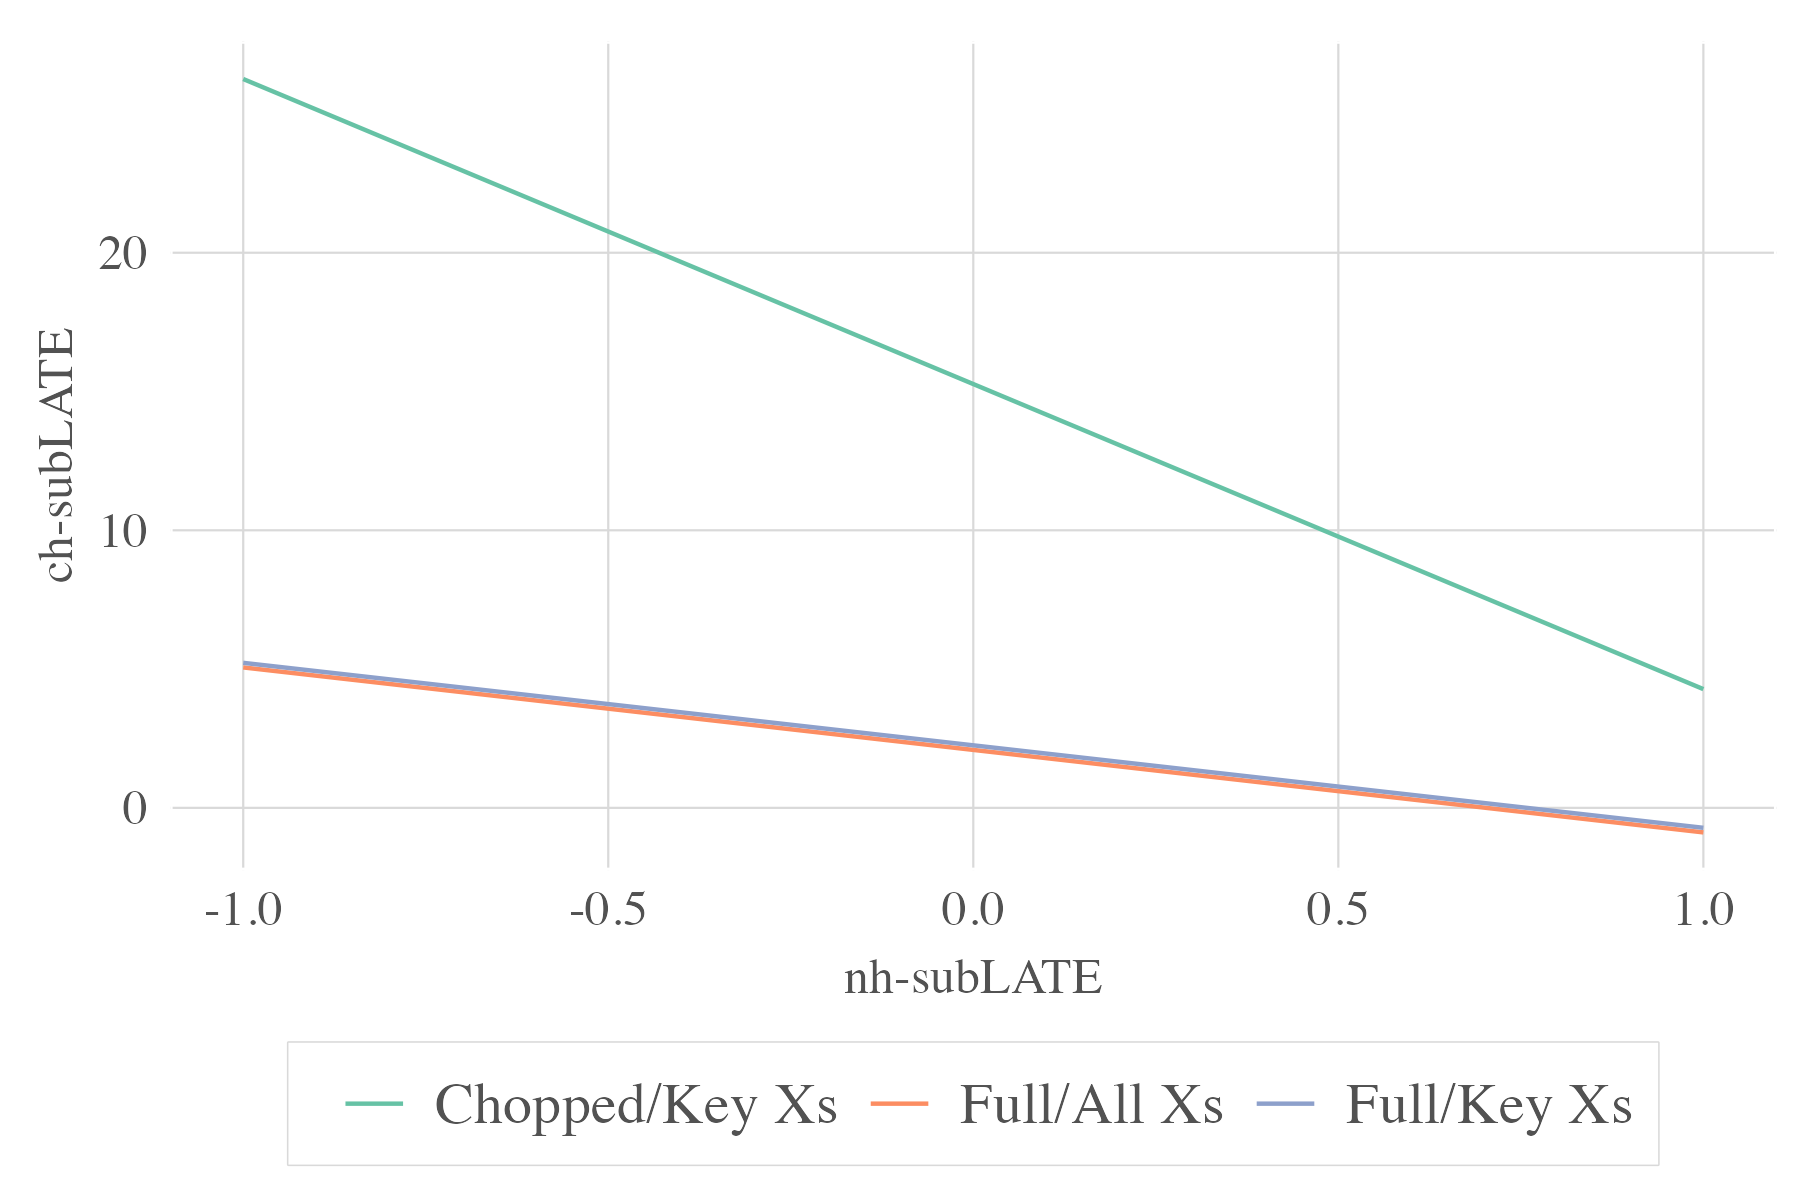
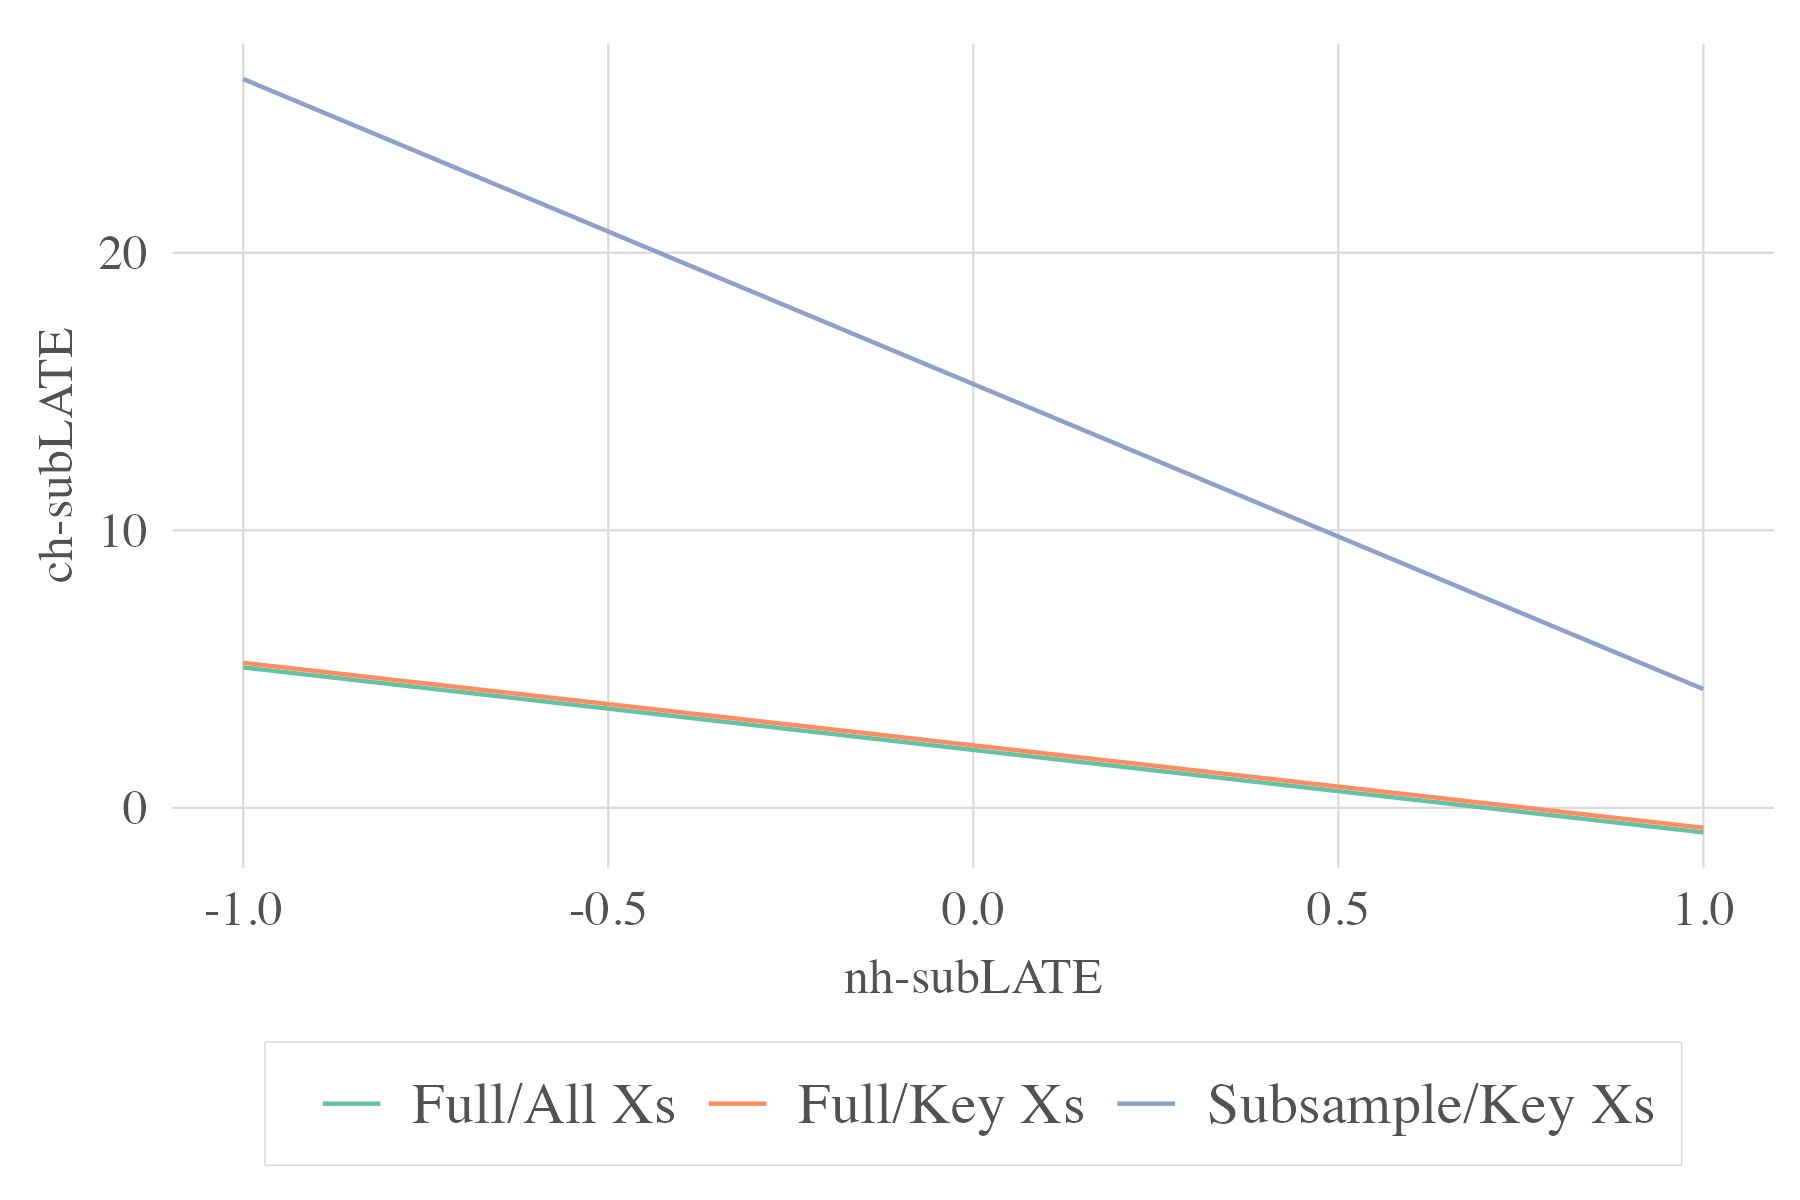
Updates for KAIST presentation

diff --git a/output_backup/forest_base.tex b/output_backup/forest_base.tex
@@ -1,4 +1,4 @@
-% created using textables on Wed Sep 14 07:39:32 PM 2022
+% created using textables on Sat Apr 22 15:07:02 2023
 \begin{tabular}{lccccccc}
 \toprule 
 \midrule 
@@ -9,21 +9,21 @@ Sample/Description & Obs & OLS & \multicolumn{2}{c}{Causal Forest} & 2SLS & \mul
 \midrule 
  &  & \multicolumn{6}{c}{Programme: EHS, Center $+$ Mixed} \\
  \cmidrule(lr){3-8} 
-Full/All Xs & 777 & 0.136** & 0.135* & 0.193** & 0.292** & 0.317** & 0.365** \\
- &  & (0.067) & (0.071) & (0.094) & (0.141) & (0.139) & (0.157) \\
-Full/Key Xs & 777 & 0.134* & 0.124* & 0.178* & 0.360** & 0.334** & 0.306* \\
- &  & (0.069) & (0.074) & (0.095) & (0.145) & (0.143) & (0.185) \\
-Chopped/Key Xs & 242 & 0.257** & 0.252** & 0.313*** & 0.622** & 0.596** & 0.636*** \\
- &  & (0.101) & (0.110) & (0.112) & (0.241) & (0.243) & (0.225) \\
+Full/All Xs & 777 & 0.136** & 0.127* & 0.199** & 0.292** & 0.320** & 0.372** \\
+ &  & (0.067) & (0.071) & (0.092) & (0.141) & (0.138) & (0.162) \\
+Full/Key Xs & 777 & 0.134* & 0.117 & 0.180* & 0.360** & 0.349** & 0.314* \\
+ &  & (0.069) & (0.074) & (0.099) & (0.145) & (0.144) & (0.176) \\
+Subsample/Key Xs & 242 & 0.257** & 0.251** & 0.313*** & 0.622** & 0.600** & 0.647*** \\
+ &  & (0.101) & (0.111) & (0.112) & (0.241) & (0.254) & (0.223) \\
 \midrule 
  &  & \multicolumn{6}{c}{Programme: EHS, Center Only} \\
  \cmidrule(lr){3-8} 
-Full/All Xs & 373 & 0.177* & 0.169* & 0.277*** & 0.526*** & 0.622*** & 0.782*** \\
- &  & (0.094) & (0.098) & (0.107) & (0.158) & (0.159) & (0.220) \\
-Full/Key Xs & 373 & 0.180* & 0.164 & 0.243** & 0.567*** & 0.575*** & 0.569** \\
- &  & (0.095) & (0.103) & (0.120) & (0.160) & (0.163) & (0.228) \\
-Chopped/Key Xs & 109 & 0.520*** & 0.523*** & 0.518*** & 1.273*** & 1.203*** & 1.267*** \\
- &  & (0.142) & (0.150) & (0.140) & (0.333) & (0.321) & (0.357) \\
+Full/All Xs & 373 & 0.177* & 0.173* & 0.271** & 0.526*** & 0.595*** & 0.742*** \\
+ &  & (0.094) & (0.098) & (0.111) & (0.158) & (0.159) & (0.215) \\
+Full/Key Xs & 373 & 0.180* & 0.165 & 0.241* & 0.567*** & 0.572*** & 0.541** \\
+ &  & (0.095) & (0.102) & (0.125) & (0.160) & (0.166) & (0.223) \\
+Subsample/Key Xs & 109 & 0.520*** & 0.510*** & 0.499*** & 1.273*** & 1.204*** & 1.257*** \\
+ &  & (0.142) & (0.147) & (0.135) & (0.333) & (0.328) & (0.336) \\
 \midrule 
 \bottomrule 
 \end{tabular}

diff --git a/output_backup/type_prevalence.tex b/output_backup/type_prevalence.tex
@@ -1,25 +1,25 @@
-% created using textables on Wed Sep 14 07:39:32 PM 2022
+% created using textables on Sat Apr 22 15:07:09 2023
 \begin{tabular}{lccccccc}
 \toprule 
 \midrule 
 \multicolumn{2}{c}{} & \multicolumn{2}{c}{Compliers} &  & \multicolumn{3}{c}{Always-Takers} \\
  \cmidrule(lr){3-4} \cmidrule(lr){6-8} 
-Sample & Obs & $p_{nh} & $p_{ch} & $nh$-share & $p_{hh} & $p_{cc} & $p_{nn} \\
+Sample & Obs & $p_{nh}$ & $p_{ch}$ & $nh$-share & $p_{hh}$ & $p_{cc}$ & $p_{nn}$ \\
 \midrule 
  &  & \multicolumn{6}{c}{Programme: EHS, Center $+$ Mixed} \\
  \cmidrule(lr){3-8} 
 Full & 777 & 0.309 & 0.111 & 0.735 & 0.041 & 0.112 & 0.427 \\
-Chopped & 242 & 0.200 & 0.154 & 0.564 & 0.043 & 0.087 & 0.516 \\
+Subsample & 242 & 0.200 & 0.154 & 0.564 & 0.043 & 0.087 & 0.516 \\
 \midrule 
  &  & \multicolumn{6}{c}{Programme: EHS, Center Only} \\
  \cmidrule(lr){3-8} 
 Full & 373 & 0.445 & 0.150 & 0.748 & 0.096 & 0.055 & 0.253 \\
-Chopped & 109 & 0.403 & 0.037 & 0.917 & 0.114 & 0.077 & 0.369 \\
+Subsample & 109 & 0.403 & 0.037 & 0.917 & 0.114 & 0.077 & 0.369 \\
 \midrule 
  &  & \multicolumn{6}{c}{Programme: ABC} \\
  \cmidrule(lr){3-8} 
 Full & 103 & 0.582 & 0.301 & 0.659 & 0.060 & 0.019 & 0.038 \\
-Chopped & 98 & 0.606 & 0.272 & 0.690 & 0.062 & 0.020 & 0.040 \\
+Subsample & 98 & 0.606 & 0.272 & 0.690 & 0.062 & 0.020 & 0.040 \\
 \midrule 
 \bottomrule 
 \end{tabular}
